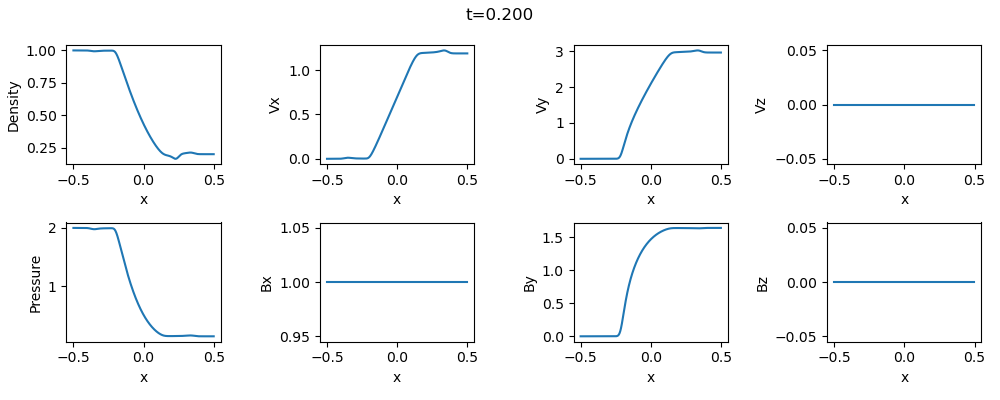
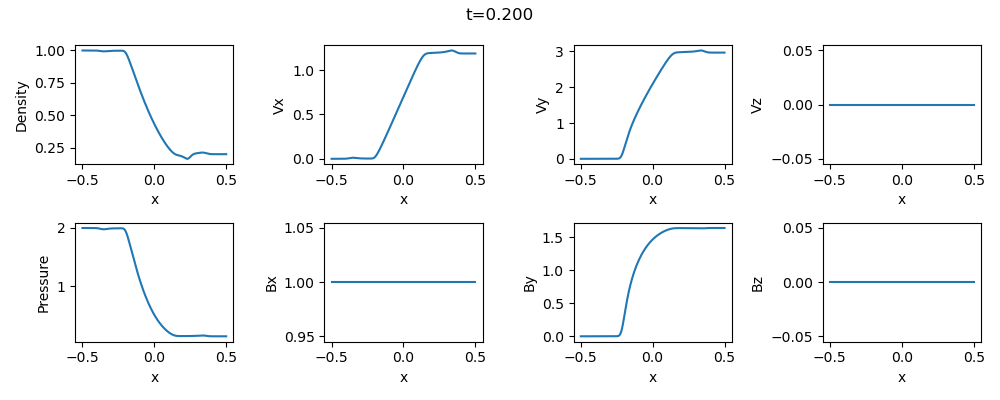
1D imags slightly updated

diff --git a/1D/SERIAL/h-wave/README.md b/1D/SERIAL/h-wave/README.md
@@ -2,7 +2,18 @@
 This problem demonstrates the propagation of Hall-MHD waves in homogeneous plasma to confirm that the code successfully satisfies the linear dispersion.<br>
 Random white noise is added to the magnetic field and pressure, and their perturbations propagate as the whistler and ion cyclotron,  and magnetosonic waves.
 
-The result for *&beta;=10*, the grid width *&Delta;x=0.0039*, and the ion inertia length *d<sub>i</sub>=0.01* is shown below.<br>
+These figures were regenerated with `XMESH=256`, `RMN=2` (LHLLD), `ODR=4`, `R_K=3`, `CFL=0.4`, `DTREC=0.005`, `N_OUT=4095`, and `D_ION=1e-2`, using GCC 16.2.0 (C++17, `-O2`) and `OMP_NUM_THREADS=2`. Initialization uses `rand_noise_mt()` with `std::mt19937` and seed `10`; the random realization differs from the legacy generator used for the old figures.
+
+To reproduce them, keep `beta=10.0` in `mhd1d_init_.cpp`, set `D_ELE` in `mymacros.hpp` to `0.0` or `1.0`, then rebuild and run as described in the [SERIAL guide](../README.md). In an interactive Python session, execute:
+
+```pycon
+>>> exec(open("batch_a.py").read())
+>>> exec(open("wk_plt.py").read())
+```
+
+For `batch_a.py`, enter `dat` and select output index `2048` for the spatial profiles at `t=10.240`. Keep `val=by` in `wk_plt.py`; the magnetic-field spectrum uses all 4096 snapshots from `t=0` to `20.475`. The color scale is `log10(abs(FFT))`.
+
+The result for *&beta;=10*, the grid width *&Delta;x=0.00390625*, and the ion inertia length *d<sub>i</sub>=0.01*, without artificial electron inertia (`D_ELE=0`), is shown below.<br>
 Dispersion relation of the whistler and ion cyclotron waves is observed in the spectrum plot of the magnetic field.
 ![Wave profile for beta=10](../../imgs/h-wave/wave_b1e+1.png)
 ![Spectrum of by for beta=10](../../imgs/h-wave/wk_by_b1e+1.png)
@@ -10,7 +21,7 @@ Dispersion relation of the whistler and ion cyclotron waves is observed in the s
 It is well known that the dispersive nature of the whistler waves (phase velocity proportional to wavenumber) is unfavorable condition for Hall-MHD simulations in terms of numerical stability.<br>
 To relax this issue, the code can introduce the upper bound to the phase velocity of whistler waves through an "artificial" electron inertia, motivated by the study of Amano[^1].<br>
 
-The result for the electron inertia length *d<sub>e</sub>=&Delta;x* is shown below.<br>
+The result for the artificial electron inertia length *d<sub>e</sub>=&Delta;x* (`D_ELE=1`) is shown below.<br>
 The dispersion relation of the whistler wave *&omega; = V<sub>a</sub>d<sub>i</sub>k<sub>x</sub><sup>2</sup>* is modified to *&omega; = V<sub>a</sub>d<sub>i</sub>k<sub>x</sub><sup>2</sup>/(1+d<sub>e</sub><sup>2</sup>k<sub>x</sub><sup>2</sup>)*, limiting the maximum phase velocity to *V<sub>a</sub>d<sub>i</sub>/2d<sub>e</sub>*.
 ![Wave profile for beta=10](../../imgs/h-wave/wave_b1e+1_e.png)
 ![Spectrum of by for beta=10](../../imgs/h-wave/wk_by_b1e+1_e.png)

diff --git a/1D/SERIAL/h-shock/README.md b/1D/SERIAL/h-shock/README.md
@@ -2,10 +2,24 @@
 This problem demonstrates the Hall-MHD version of the standard MHD shock tube problems adopted in `1D/SERIAL/shock`.<br>
 Due to the dispersive nature of Hall-MHD, discontinuous jumps and smooth rarefaction waves of MHD solutions may be distorted.
 
-The following shows the density profile of the Hall-MHD version of the Brio & Wu problem[^1] (Set `NUM` being `2` in `mhd1d_init_.cpp`).<br>
+The following shows the density profile at `t=0.100` of the Hall-MHD version of the Brio & Wu problem[^1] (set `NUM=2` in `mhd1d_init_.cpp`).<br>
 The ion inertia length *d<sub>i</sub>=0.001* is used.<br>
 The solution in the left plot is close to the MHD solution because the grid width *&Delta;x=0.0025* is larger than the ion inertia length.<br>
 In contrast, the dispersive wave train appears behind discontinuities in the right plot when the grid width *&Delta;x=0.000625* is smaller than the ion inertia length.<br>
+
+These figures were regenerated with `XMESH=400` and `1600`, `RMN=2` (LHLLD), `ODR=4`, `R_K=3`, `CFL=0.4`, `DTREC=0.01`, `D_ION=1e-3`, and `D_ELE=0`, using GCC 16.2.0 (C++17, `-O2`) and `OMP_NUM_THREADS=2`. No artificial electron inertia is used.
+
+To reproduce them, set `XMESH` in `mymacros.hpp` to each resolution, then rebuild and run as described in the [SERIAL guide](../README.md). `N_OUT=10` is sufficient to reach the plotted time. Execute `batch.py` in an interactive Python session, enter `dat`, and select output index `10`. To plot density alone:
+
+```pycon
+>>> plt.figure(figsize=(6.4, 4.8))
+>>> plt.plot(x, ro)
+>>> plt.xlabel("x")
+>>> plt.ylabel("Density")
+>>> plt.title(f"t={t[sst]:.3f}, N={x.size}")
+>>> plt.tight_layout()
+>>> plt.show(block=False)
+```
 
 <img src="../../imgs/h-shock/bw_den_n0400.png" alt="BrioWu density at dx=0.0025" width="400px"><img src="../../imgs/h-shock/bw_den_n1600.png" alt="BrioWu density at dx=0.000625" width="400px">
 

diff --git a/1D/SERIAL/wave/README.md b/1D/SERIAL/wave/README.md
@@ -5,6 +5,17 @@ Random white noise is added to the magnetic field and pressure, and their pertur
 Example results for high and low beta cases are shown below:<br>
 (Top...spatial profiles, bottom left...spectrum of the magnetic field, bottom right...spectrum of the pressure. Users can create the spectrum plot with the scripts `batch_a.py` and `wk_plt.py`)
 
+These figures were regenerated with `XMESH=256`, `RMN=2` (LHLLD), `ODR=4`, `R_K=3`, `CFL=0.4`, `DTREC=0.01`, and `N_OUT=4095`, using GCC 16.2.0 (C++17, `-O2`) and `OMP_NUM_THREADS=2`. Initialization uses `rand_noise_mt()` with `std::mt19937` and seed `10`; the random realization differs from the legacy generator used for the old figures.
+
+To reproduce them, set `beta` to `10.0` or `0.1` in `mhd1d_init_.cpp`, then rebuild and run as described in the [SERIAL guide](../README.md). In an interactive Python session, execute:
+
+```pycon
+>>> exec(open("batch_a.py").read())
+>>> exec(open("wk_plt.py").read())
+```
+
+For `batch_a.py`, enter `dat` and select output index `1024` for the spatial profiles at `t=10.240`. The spectrum uses all 4096 snapshots from `t=0` to `40.95`. In `wk_plt.py`, use `val=by` for the magnetic-field spectrum; replace that assignment with `val=pr` and rerun the script for the pressure spectrum. The color scale is `log10(abs(FFT))`.
+
 1. `beta=10` in `mhd1d_init_.cpp`. The pressure perturbation propagates as the fast magnetosonic wave.
 ![Wave profile for beta=10](../../imgs/wave/wave_b1e+1.png)
 <img src="../../imgs/wave/wk_by_b1e+1.png" alt="Spectrum of by for beta=10" width="400px"><img src="../../imgs/wave/wk_pr_b1e+1.png" alt="Spectrum of pr for beta=10" width="400px">

diff --git a/1D/SERIAL/shock/README.md b/1D/SERIAL/shock/README.md
@@ -9,17 +9,19 @@ Here, users can demonstrate five standard MHD shock tube problems adopted by Miy
 4. Slow switch-off rarefaction
 5. Super-fast expansion
 
-Example results for each problem are shown below:
+Example results for each problem are shown below. These figures were regenerated with `XMESH=800`, `RMN=2` (LHLLD), `ODR=1`, `R_K=2`, `CFL=0.4`, and `DTREC=0.01`, using GCC 16.2.0 (C++17, `-O2`) and `OMP_NUM_THREADS=2`.
 
-1. Dai & Woodward problem
+To reproduce them, set `NUM` to each problem number, rebuild and run as described in the [SERIAL guide](../README.md), then use `batch.py` to select output indices `20`, `10`, `20`, `20`, and `5`, respectively.
+
+1. Dai & Woodward problem (`t=0.200`)
 ![Dai & Woodward problem](../../imgs/shock/Figure_1.png)
-2. Brio & Wu problem
+2. Brio & Wu problem (`t=0.100`)
 ![Brio & Wu problem](../../imgs/shock/Figure_2.png)
-3. Slow switch-off shock
+3. Slow switch-off shock (`t=0.200`)
 ![Slow switch-off shock](../../imgs/shock/Figure_3.png)
-4. Slow switch-off rarefaction
+4. Slow switch-off rarefaction (`t=0.200`)
 ![Slow switch-off rarefaction](../../imgs/shock/Figure_4.png)
-5. Super-fast expansion
+5. Super-fast expansion (`t=0.050`)
 ![Super-fast expansion](../../imgs/shock/Figure_5.png)
 
 ## License
